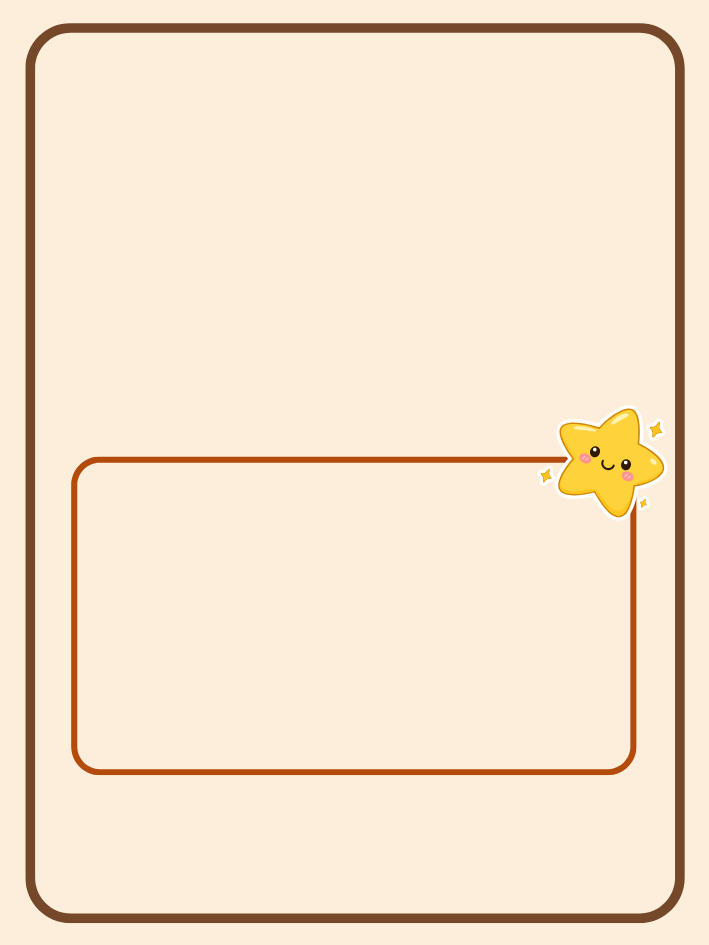
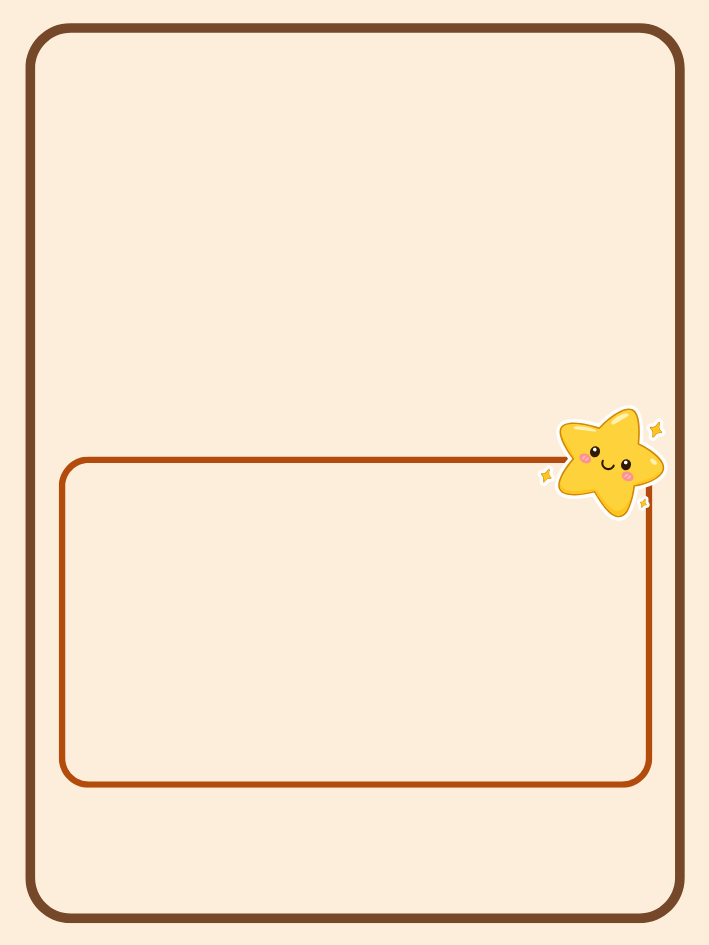
Designs 5, 6 and 7 redrawn, and re-measured against the new files
Three replacement frames, mapped by the design number the Studio shows rather
than by the file-offset the first batch used - 5.png is design 5 this time, not
design 4. Confirmed against the artwork before copying: each one is a redraw of
the design it names.

All three moved their writing box, so all three were measured again:

  5  box 48.7-83.1, band 52.0-82.0. The band starts below the box's own top
     border rather than on it, because the star sits over the top-right corner
     and a first line running the full column width would have gone under it.
  6  two boxes, 6.0-59.0 and 61.5-84.0. Band 62.5-83.0, and the caption moves
     from 86 to 87 to sit between the box and the flourish below it.
  7  the ring is drawn larger than before: the hero window grows from 17.7+27.5
     to 11.0+38.0, and the band follows the box down to 60.0-83.5.

Design 6 gains a size step from the taller box, 7 keeps base, 5 keeps lg.
Checked at 14, 73, 104 and 147 characters against all fifteen: nothing overflows.

Also fixes the audit tool, which was closing the card's inner box after the
caption instead of before it and so drew the game's name in the wrong place -
in the tool only; the printed cards were never affected.

Changed region(s): [[0.0621, 0.4603, 0.9309, 0.8593]]

diff --git a/app/Services/PrintBundle.php b/app/Services/PrintBundle.php
@@ -464,9 +464,9 @@ class PrintBundle
         2 => ['mission' => [62.0, 13.0], 'move' => [24.4, 24.4]],
         3 => ['mission' => [62.0, 15.0], 'move' => [25.9, 25.6]],
         4 => ['mission' => [66.0, 10.0], 'move' => [25.9, 25.9]],
-        5 => ['mission' => [51.4, 18.7], 'move' => [23.4, 23.1]],
-        6 => ['mission' => [62.1, 17.8], 'move' => [22.8, 22.8]],
-        7 => ['mission' => [58.9, 16.8], 'move' => [24.4, 24.7]],
+        5 => ['mission' => [52.0, 18.0], 'move' => [23.4, 23.1]],
+        6 => ['mission' => [62.5, 17.0], 'move' => [22.8, 22.8]],
+        7 => ['mission' => [60.0, 16.5], 'move' => [24.4, 24.7]],
         8 => ['mission' => [67.0, 9.0], 'move' => [23.4, 23.4]],
         9 => ['mission' => [58.3, 19.2], 'move' => [26.6, 22.0]],
         10 => ['mission' => [51.9, 26.3], 'move' => [26.6, 26.6]],
@@ -493,7 +493,7 @@ class PrintBundle
         3 => ['mission' => null, 'move' => 84.1],
         4 => ['mission' => 93.0, 'move' => 81.2],
         5 => ['mission' => 88.0, 'move' => 87.0],
-        6 => ['mission' => 86.0, 'move' => 87.3],
+        6 => ['mission' => 87.0, 'move' => 87.3],
         7 => ['mission' => 89.0, 'move' => 86.1],
         8 => ['mission' => 95.0, 'move' => 94.0],
         9 => ['mission' => 88.0, 'move' => 92.1],
@@ -590,9 +590,9 @@ class PrintBundle
         2  => ['mission' => ['top' => 19.3, 'height' => 40.7, 'left' =>  9.0, 'right' =>  9.0]],
         3  => ['mission' => ['top' => 28.5, 'height' => 31.5, 'left' =>  9.0, 'right' =>  9.0]],
         4  => ['mission' => ['top' => 20.0, 'height' => 44.0, 'left' =>  9.0, 'right' =>  9.0]],
-        5  => ['mission' => ['top' =>  3.5, 'height' => 45.3, 'left' =>  9.0, 'right' =>  9.0]],
-        6  => ['mission' => ['top' =>  5.6, 'height' => 53.7, 'left' => 11.0, 'right' => 11.0]],
-        7  => ['mission' => ['top' => 17.7, 'height' => 27.5, 'left' => 16.0, 'right' => 16.0]],
+        5  => ['mission' => ['top' =>  4.0, 'height' => 44.0, 'left' =>  9.0, 'right' =>  9.0]],
+        6  => ['mission' => ['top' =>  6.0, 'height' => 53.0, 'left' => 11.0, 'right' => 11.0]],
+        7  => ['mission' => ['top' => 11.0, 'height' => 38.0, 'left' => 16.0, 'right' => 16.0]],
         8  => ['mission' => ['top' => 24.8, 'height' => 40.2, 'left' =>  9.0, 'right' =>  9.0]],
         9  => ['mission' => ['top' => 21.5, 'height' => 31.2, 'left' => 12.0, 'right' => 12.0]],
         10 => ['mission' => ['top' => 17.0, 'height' => 34.4, 'left' => 12.0, 'right' => 12.0]],

diff --git a/tools/audit-mission-cards.php b/tools/audit-mission-cards.php
@@ -68,10 +68,10 @@ for ($style = $from; $style <= $to; $style++) {
                  . $inner
                  . '<div class="card-cut__q ' . $cls . '">' . htmlspecialchars($q) . '</div>'
                  . '<div class="card-cut__a">Answer: 14</div>'
+                 . '</div>'                       // closes card-cut__inner
                  . (PrintBundle::captionFits($style, 'mission')
                         ? '<div class="card-cut__game">STAR RESCUE MISSION</div>' : '')
-                 . '</div>'
-                 . '</div>'
+                 . '</div>'                       // closes card-cut
                  . '<figcaption>' . $style . ' &middot; ' . $label . ' &middot; band '
                  . $band[0] . '-' . $band[1] . ' &middot; ' . ($cls ?: 'base') . '</figcaption>'
                  . '</figure>';
